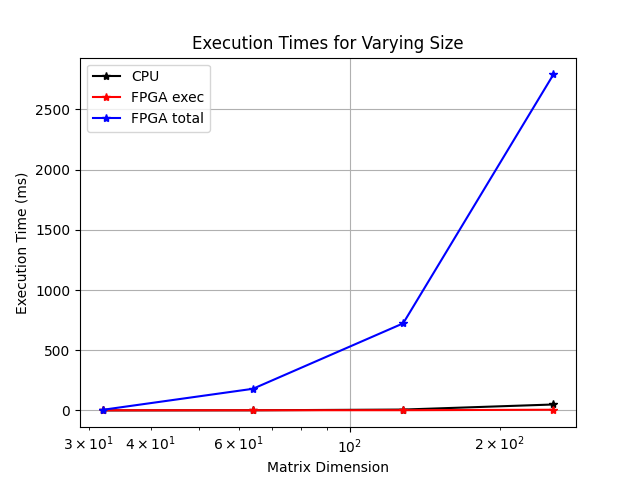
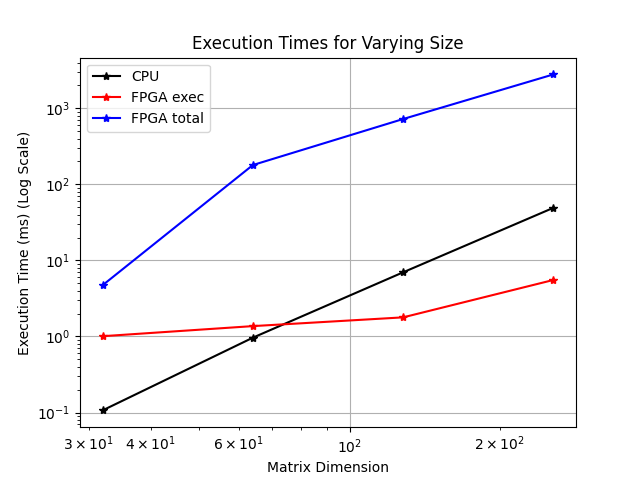
Added alterations

diff --git a/FPGA/matmult/graph.py b/FPGA/matmult/graph.py
@@ -8,7 +8,7 @@ data=pd.read_csv('/home/sureshm/Senior_Design_HPC/FPGA/matmult/matmulPartitonTim
 size=data['rows'].to_numpy()
 CPU=data['cpu time (ms)'].to_numpy()
 GPU_Mem=data['total kernel runtime (ms)'].to_numpy()
-GPU_wo_Mem=GPU_Mem+data['total memory transfer time total (ms)']
+GPU_wo_Mem=GPU_Mem+data['total memory transfer time total (ms)'].to_numpy()
 SU_Mem=data['speedup (cpu/total kernel time)'].to_numpy()
 SU_wo_Mem=np.divide(CPU,GPU_wo_Mem)
 through=(data['write latency (MB/s)'].to_numpy()+data['read latency (MB/s)'].to_numpy())/2
@@ -19,10 +19,11 @@ ax1.plot(size,CPU,'k',marker='*', label='CPU')
 ax1.plot(size,GPU_Mem,'r',marker='*', label='FPGA exec')
 ax1.plot(size,GPU_wo_Mem,'b',marker='*', label='FPGA total')
 ax1.set_xscale("log")
+ax1.set_yscale("log")
 ax1.grid()
 ax1.legend()
 ax1.set_xlabel('Matrix Dimension')
-ax1.set_ylabel('Execution Time (ms)')
+ax1.set_ylabel('Execution Time (ms) (Log Scale)')
 ax1.set_title('Execution Times for Varying Size')
 plt.savefig('fig_1.png')
 plt.show()
@@ -31,10 +32,11 @@ fig, (ax3)= plt.subplots(1,1)
 ax3.plot(size,SU_Mem,'k',marker='*', label='FPGA total')
 ax3.plot(size,SU_wo_Mem,'r',marker='*', label='FPGA exec')
 ax3.set_xscale("log")
+ax1.set_yscale("log")
 ax3.grid()
 ax3.legend()
 ax3.set_xlabel('Matrix Dimension')
-ax3.set_ylabel('SpeedUp')
+ax3.set_ylabel('SpeedUp (Log Scale)')
 ax3.set_title('SpeedUp for Varying Size')
 plt.savefig('fig_2.png')
 plt.show()
